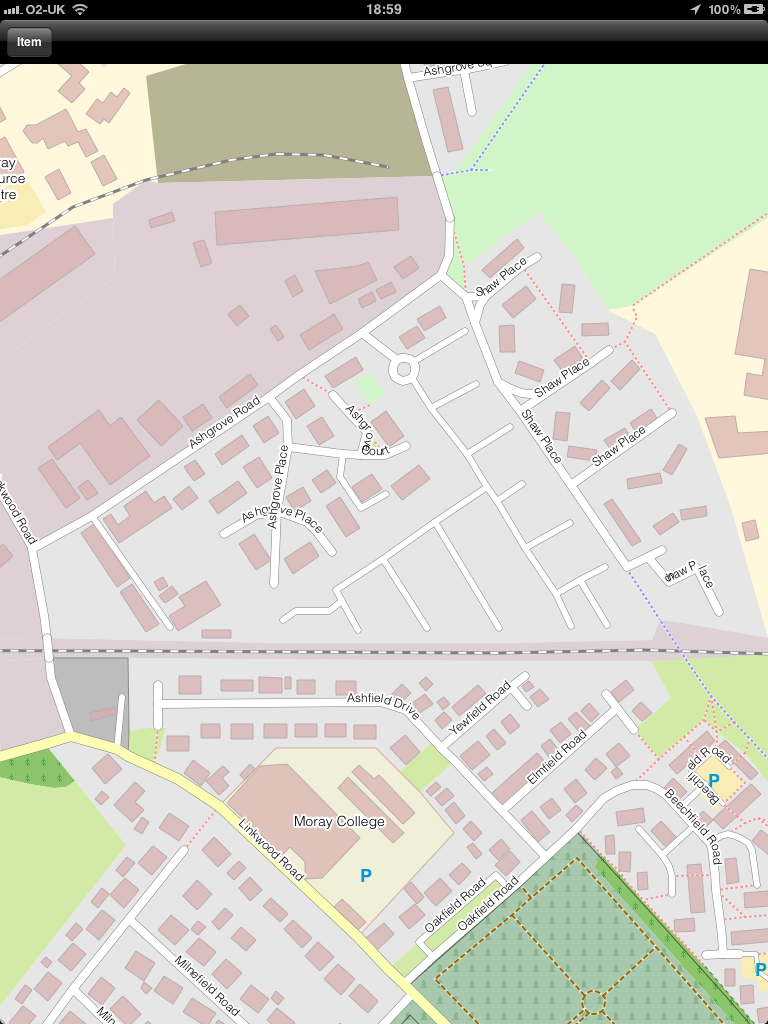
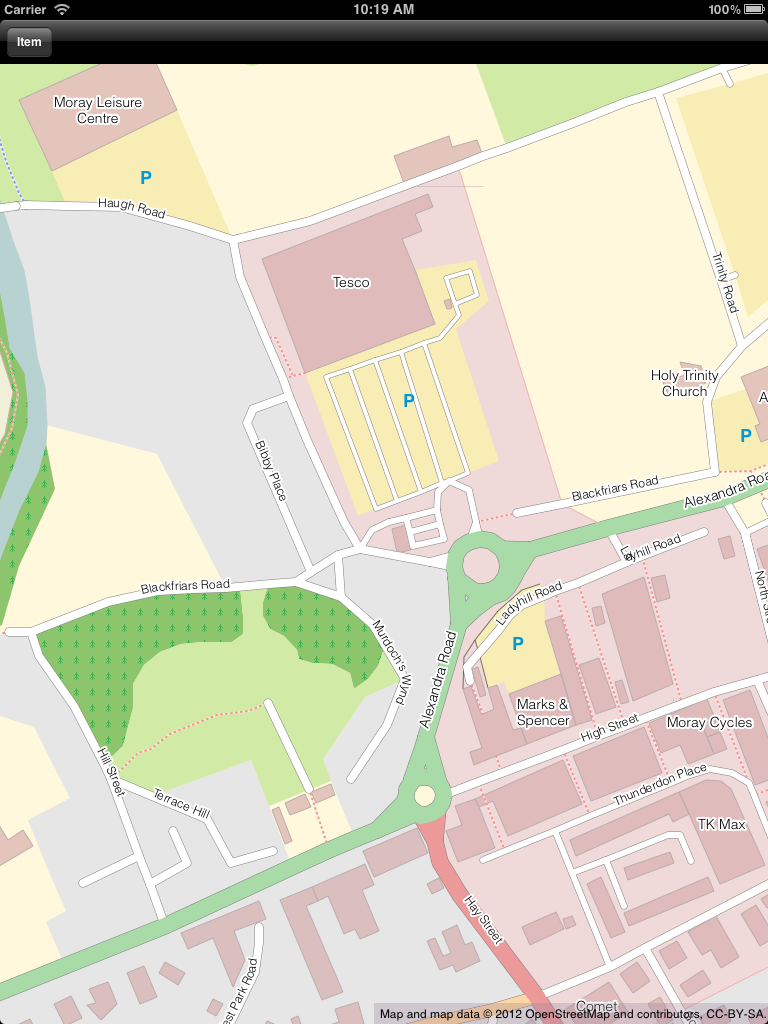
Updated screenshot.  Added support for zooming (though no MapCSS zoom selectors yet).  Fixes #27.

diff --git a/OpenStreetPad/OSPMapView.m b/OpenStreetPad/OSPMapView.m
@@ -23,6 +23,9 @@
 
 @property (readwrite, strong) OSPDataSource *dataSource;
 
+@property (readwrite, strong) UIView *frontView;
+@property (readwrite, strong) UIView *backView;
+
 @property (readwrite, strong) OSPMetaTileView *bottomLeft;
 @property (readwrite, strong) OSPMetaTileView *bottomRight;
 @property (readwrite, strong) OSPMetaTileView *topLeft;
@@ -33,6 +36,7 @@
 - (void)commonInit;
 
 - (IBAction)pan:(id)sender;
+- (IBAction)zoom:(id)sender;
 
 @end
 
@@ -40,6 +44,8 @@
 
 @synthesize dataSource;
 @synthesize mapArea;
+@synthesize frontView;
+@synthesize backView;
 @synthesize bottomLeft;
 @synthesize bottomRight;
 @synthesize topLeft;
@@ -102,29 +108,16 @@
     
     [self setClipsToBounds:YES];
     
-    float metaZoom = zoom - 2.0f;
-    float numberOfMetaTilesAcrossWorld = pow(2.0, metaZoom);
-    float xFloatingMetaTile = numberOfMetaTilesAcrossWorld * mapRect.origin.x;
-    int xMetaTile = (int)xFloatingMetaTile;
-    float xMetaTilePosition = 1024.0f * (xFloatingMetaTile - (float)xMetaTile);
-    float yFloatingMetaTile = numberOfMetaTilesAcrossWorld * mapRect.origin.y;
-    int yMetaTile = (int)yFloatingMetaTile;
-    float yMetaTilePosition = 1024.0f * (yFloatingMetaTile - (float)yMetaTile);
-    double metaTileSize = 1.0 / numberOfMetaTilesAcrossWorld;
-    
-    [self setBottomLeft: [self metaTileViewWithFrame:CGRectMake(-xMetaTilePosition          , -yMetaTilePosition          , 1024.0f, 1024.0f) mapArea:OSPMapAreaMake(OSPCoordinate2DMake(((float)xMetaTile + 0.5f) * metaTileSize, ((float)yMetaTile + 0.5f) * metaTileSize), zoom)]];
-    [self setBottomRight:[self metaTileViewWithFrame:CGRectMake(-xMetaTilePosition + 1024.0f, -yMetaTilePosition          , 1024.0f, 1024.0f) mapArea:OSPMapAreaMake(OSPCoordinate2DMake(((float)xMetaTile + 1.5f) * metaTileSize, ((float)yMetaTile + 0.5f) * metaTileSize), zoom)]];
-    [self setTopLeft:    [self metaTileViewWithFrame:CGRectMake(-xMetaTilePosition          , -yMetaTilePosition + 1024.0f, 1024.0f, 1024.0f) mapArea:OSPMapAreaMake(OSPCoordinate2DMake(((float)xMetaTile + 0.5f) * metaTileSize, ((float)yMetaTile + 1.5f) * metaTileSize), zoom)]];
-    [self setTopRight:   [self metaTileViewWithFrame:CGRectMake(-xMetaTilePosition + 1024.0f, -yMetaTilePosition + 1024.0f, 1024.0f, 1024.0f) mapArea:OSPMapAreaMake(OSPCoordinate2DMake(((float)xMetaTile + 1.5f) * metaTileSize, ((float)yMetaTile + 1.5f) * metaTileSize), zoom)]];
-    [self addSubview:[self bottomLeft]];
-    [self addSubview:[self bottomRight]];
-    [self addSubview:[self topLeft]];
-    [self addSubview:[self topRight]];
+    [self setBackView:nil];
+    [self regenerateMetaTileViews];
         
     UIPanGestureRecognizer *gestureRecogniser = [[UIPanGestureRecognizer alloc] initWithTarget:self action:@selector(pan:)];
     [gestureRecogniser setMaximumNumberOfTouches:1];
     [gestureRecogniser setMinimumNumberOfTouches:1];
     [self addGestureRecognizer:gestureRecogniser];
+    
+    UIPinchGestureRecognizer *pinchRecogniser = [[UIPinchGestureRecognizer alloc] initWithTarget:self action:@selector(zoom:)];
+    [self addGestureRecognizer:pinchRecogniser];
 }
 
 - (void)dataSource:(OSPDataSource *)mapServer didLoadObjectsInArea:(OSPCoordinateRect)area
@@ -238,6 +231,60 @@
     NSAssert([[self bottomRight] frame].origin.y < [[self topRight] frame].origin.y, @"bottom right is not below top right");
 }
 
+#define kMinZoom 14.0f
+#define kMaxZoom 20.0f
+
+- (void)zoom:(UIPinchGestureRecognizer *)sender
+{
+    CGFloat s = [sender scale];
+    CGFloat newZoom = [self mapArea].zoomLevel + log2(s);
+    NSLog(@"%f, %F", s, newZoom);
+    if (newZoom < kMinZoom)
+    {
+        newZoom = kMinZoom;
+        s = exp2(kMinZoom - [self mapArea].zoomLevel);
+    }
+    if (newZoom > kMaxZoom)
+    {
+        newZoom = kMaxZoom;
+        s = exp2(kMaxZoom - [self mapArea].zoomLevel);
+    }
+    
+    switch ([sender state])
+    {
+        case UIGestureRecognizerStateBegan:
+        {
+            [[self backView] removeFromSuperview];
+            [self setBackView:nil];
+            break;
+        }
+        case UIGestureRecognizerStateEnded:
+        {
+            [self setMapArea:OSPMapAreaMake([self mapArea].centre, newZoom)];
+            [self setBackView:[self frontView]];
+            [UIView animateWithDuration:2.0
+                             animations:^()
+             {
+                 [[self backView] setAlpha:0.0f];
+             }
+                             completion:^(BOOL finished)
+             {
+                 if (finished)
+                 {
+                     [[self backView] removeFromSuperview];
+                     [self setBackView:nil];
+                 }
+             }];
+            [self regenerateMetaTileViews];
+            break;
+        }
+        case UIGestureRecognizerStateChanged:
+            [[[self frontView] layer] setAffineTransform:CGAffineTransformMakeScale(s, s)];
+        default:
+            break;
+    }
+}
+
 - (OSPMetaTileView *)metaTileViewWithFrame:(CGRect)frame mapArea:(OSPMapArea)ma
 {
     OSPMetaTileView *metaTileView = [[OSPMetaTileView alloc] initWithFrame:frame];
@@ -245,6 +292,35 @@
     [metaTileView setDataSource:[self dataSource]];
     [metaTileView setStylesheet:[self stylesheet]];
     return metaTileView;
+}
+
+- (void)regenerateMetaTileViews
+{
+    float zoom = [self mapArea].zoomLevel;
+    OSPCoordinateRect mapRect = OSPRectForMapAreaInRect([self mapArea], [self bounds]);
+    float metaZoom = zoom - 2.0f;
+    float numberOfMetaTilesAcrossWorld = pow(2.0, metaZoom);
+    float xFloatingMetaTile = numberOfMetaTilesAcrossWorld * mapRect.origin.x;
+    int xMetaTile = (int)xFloatingMetaTile;
+    float xMetaTilePosition = 1024.0f * (xFloatingMetaTile - (float)xMetaTile);
+    float yFloatingMetaTile = numberOfMetaTilesAcrossWorld * mapRect.origin.y;
+    int yMetaTile = (int)yFloatingMetaTile;
+    float yMetaTilePosition = 1024.0f * (yFloatingMetaTile - (float)yMetaTile);
+    double metaTileSize = 1.0 / numberOfMetaTilesAcrossWorld;
+    
+    [self setFrontView:[[UIView alloc] initWithFrame:[self bounds]]];
+    [[self frontView] setOpaque:NO];
+    [[self frontView] setBackgroundColor:[UIColor clearColor]];
+    [self addSubview:[self frontView]];
+    
+    [self setBottomLeft: [self metaTileViewWithFrame:CGRectMake(-xMetaTilePosition          , -yMetaTilePosition          , 1024.0f, 1024.0f) mapArea:OSPMapAreaMake(OSPCoordinate2DMake(((float)xMetaTile + 0.5f) * metaTileSize, ((float)yMetaTile + 0.5f) * metaTileSize), zoom)]];
+    [self setBottomRight:[self metaTileViewWithFrame:CGRectMake(-xMetaTilePosition + 1024.0f, -yMetaTilePosition          , 1024.0f, 1024.0f) mapArea:OSPMapAreaMake(OSPCoordinate2DMake(((float)xMetaTile + 1.5f) * metaTileSize, ((float)yMetaTile + 0.5f) * metaTileSize), zoom)]];
+    [self setTopLeft:    [self metaTileViewWithFrame:CGRectMake(-xMetaTilePosition          , -yMetaTilePosition + 1024.0f, 1024.0f, 1024.0f) mapArea:OSPMapAreaMake(OSPCoordinate2DMake(((float)xMetaTile + 0.5f) * metaTileSize, ((float)yMetaTile + 1.5f) * metaTileSize), zoom)]];
+    [self setTopRight:   [self metaTileViewWithFrame:CGRectMake(-xMetaTilePosition + 1024.0f, -yMetaTilePosition + 1024.0f, 1024.0f, 1024.0f) mapArea:OSPMapAreaMake(OSPCoordinate2DMake(((float)xMetaTile + 1.5f) * metaTileSize, ((float)yMetaTile + 1.5f) * metaTileSize), zoom)]];
+    [[self frontView] addSubview:[self bottomLeft]];
+    [[self frontView] addSubview:[self bottomRight]];
+    [[self frontView] addSubview:[self topLeft]];
+    [[self frontView] addSubview:[self topRight]];
 }
 
 @end
